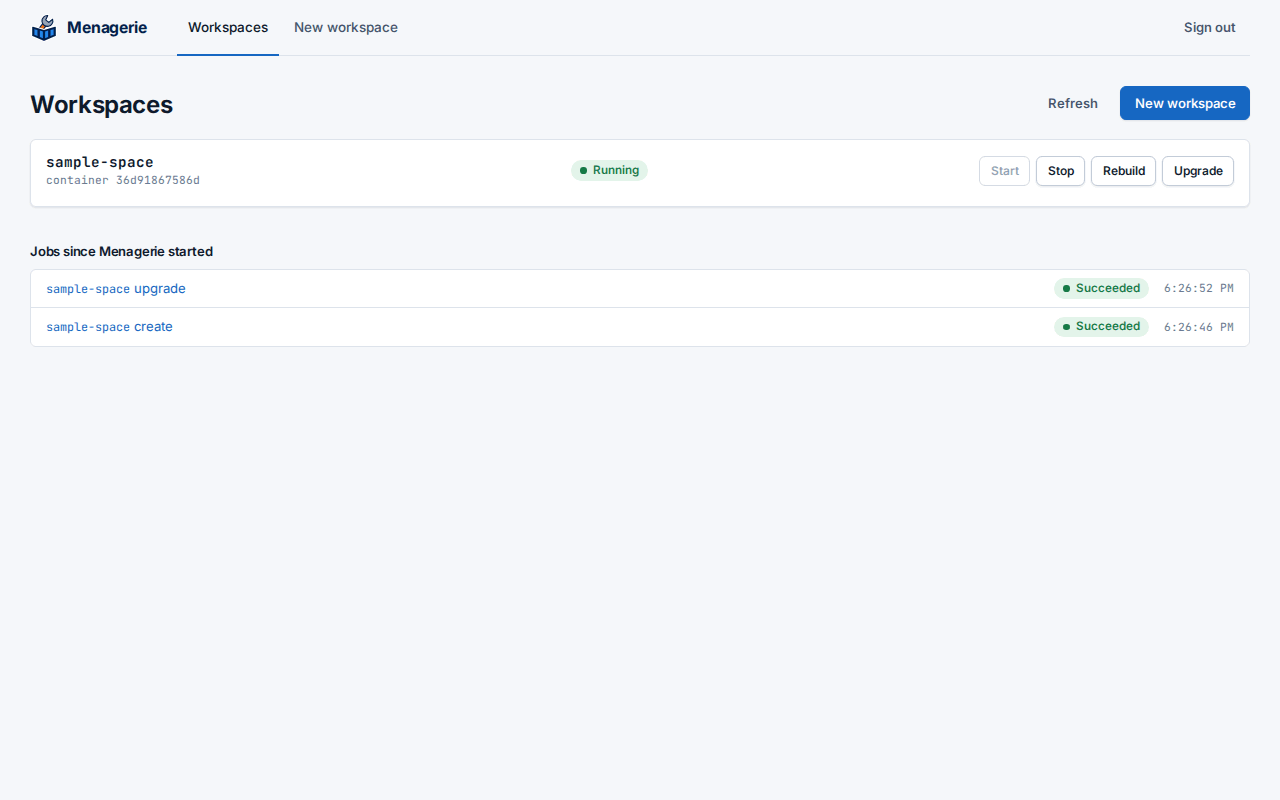
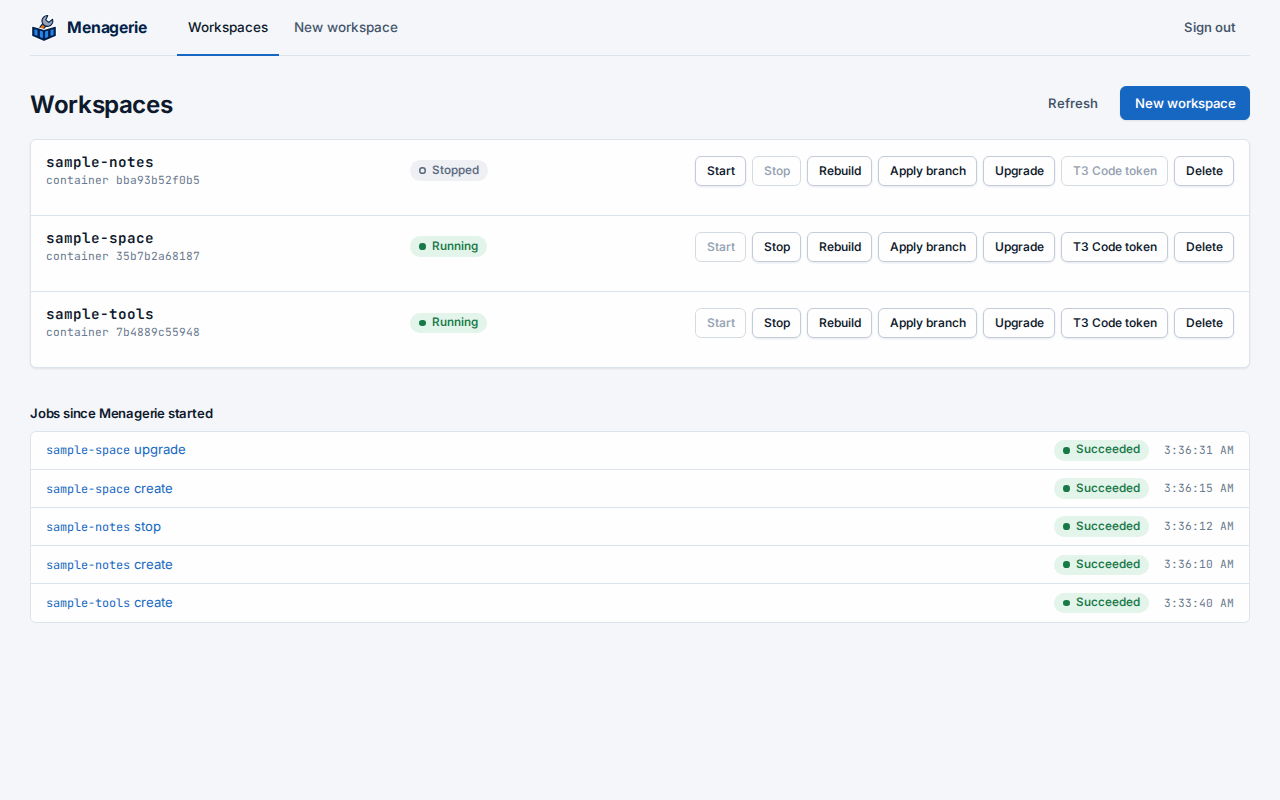
docs: show provisioning, Delete and T3 Code token in the media and highlights
The highlights are proposed text, still marked as a draft.

Refs #81

diff --git a/docs/user/usage.md b/docs/user/usage.md
@@ -35,7 +35,7 @@ usable.
 see its console. Jobs live in memory, so the list starts empty after a
 restart.
 
-![The workspace list after a rebuild](assets/list.png)
+![The workspace list with one stopped and two running workspaces](assets/list.png)
 
 ## Create a workspace
 
@@ -128,6 +128,8 @@ Git keeps no empty folder. The job console names each folder it creates.
 
 A string in `mounts` is read as Docker's `--mount` value: without `type=` it
 is a volume, not a bind, and a space around a field or a value is refused.
+
+![The console of a completed create, with the phases of provisioning](assets/provisioning-console.png)
 
 ![A template interview](assets/create-interview.png)
 
@@ -280,6 +282,8 @@ the page. The button also works while a job runs on the workspace. A refusal
 appears on the row: `workspace-not-running` when the container has stopped,
 `t3-code-not-installed` when the container does not have the Feature.
 
+![A pairing token on its row, with the token's text hidden in this image](assets/t3-code-token.png)
+
 ## Stop, start and rebuild
 
 Start runs `initializeCommand` before it starts the container, as rebuild
@@ -321,6 +325,8 @@ consumer directory stays until the next host restart.
 
 A binding or a key that another workspace's definition declares stays, and the
 console says so.
+
+![The delete form on a row, with the workspace's name typed](assets/delete-workspace.png)
 
 ## Time limits
 

diff --git a/docs/user/overview.md b/docs/user/overview.md
@@ -30,9 +30,9 @@ it defines.
   the workspace up first, fast-forwards or merges file by file, refuses
   anything that would not apply cleanly, and rebuilds the devcontainer.
 - **Back up.** Every workspace is a Git repository, pushed to its own branch
-  in one backup repository after each change. Menagerie can also commit and
-  back up changes on a schedule, and a devcontainer can ask for a commit of
-  its own workspace with `workspace-commit`.
+  in one backup repository after each job that changes it. Menagerie can also
+  commit and back up changes on a schedule, and a devcontainer can ask for a
+  commit of its own workspace with `workspace-commit`.
 
 The workspace files are the source of truth. Menagerie has no database: the
 answers live in each workspace's `.toha.json`, containers live in Docker,

diff --git a/README.md b/README.md
@@ -23,7 +23,7 @@ builds and runs the devcontainers, and
 [Wyrwood](https://github.com/wyrd-company/wyrwood) gives Menagerie its SSH
 key or GitHub App key and registry credentials.
 
-![Creating a workspace through its interview, then upgrading it](docs/user/assets/demo.gif)
+![Creating a provisioned workspace, minting a T3 Code pairing token, upgrading and deleting it](docs/user/assets/demo.gif)
 
 Documentation is at [wyrd.foo/docs/menagerie](https://wyrd.foo/docs/menagerie),
 published from [`docs/user/`](docs/user).

diff --git a/.intentional/intents/clear-willow-45b4.md b/.intentional/intents/clear-willow-45b4.md
@@ -1,0 +1,5 @@
+---
+menagerie-docs: patch
+---
+
+The demo, the screenshots and the highlights show provisioning, **Delete** and **T3 Code token**; the usage page has new images of a provisioned create, a pairing token and the delete form.
